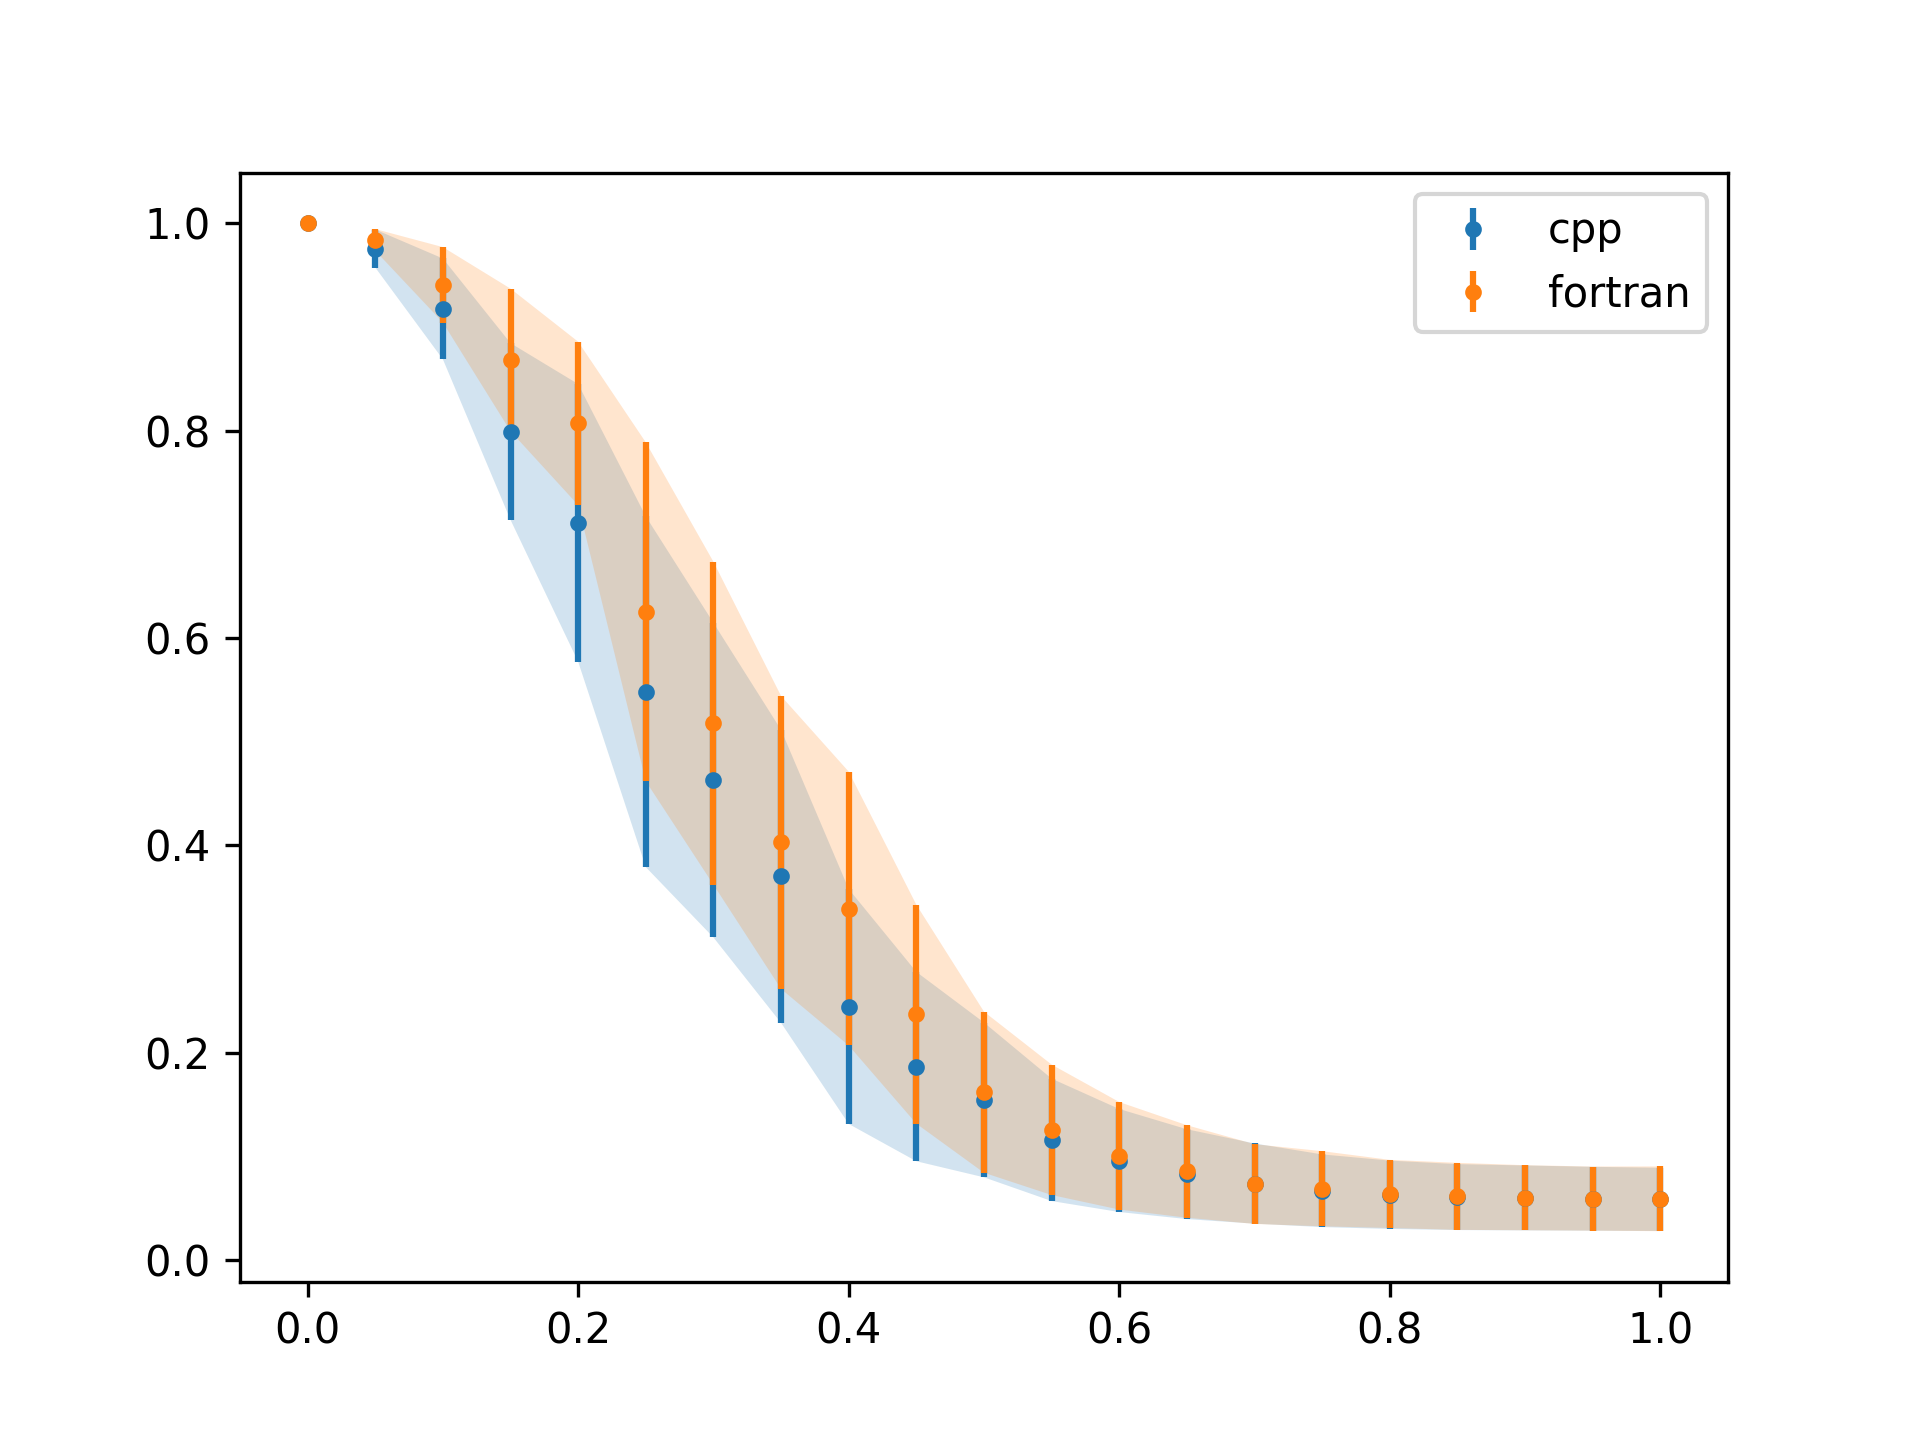
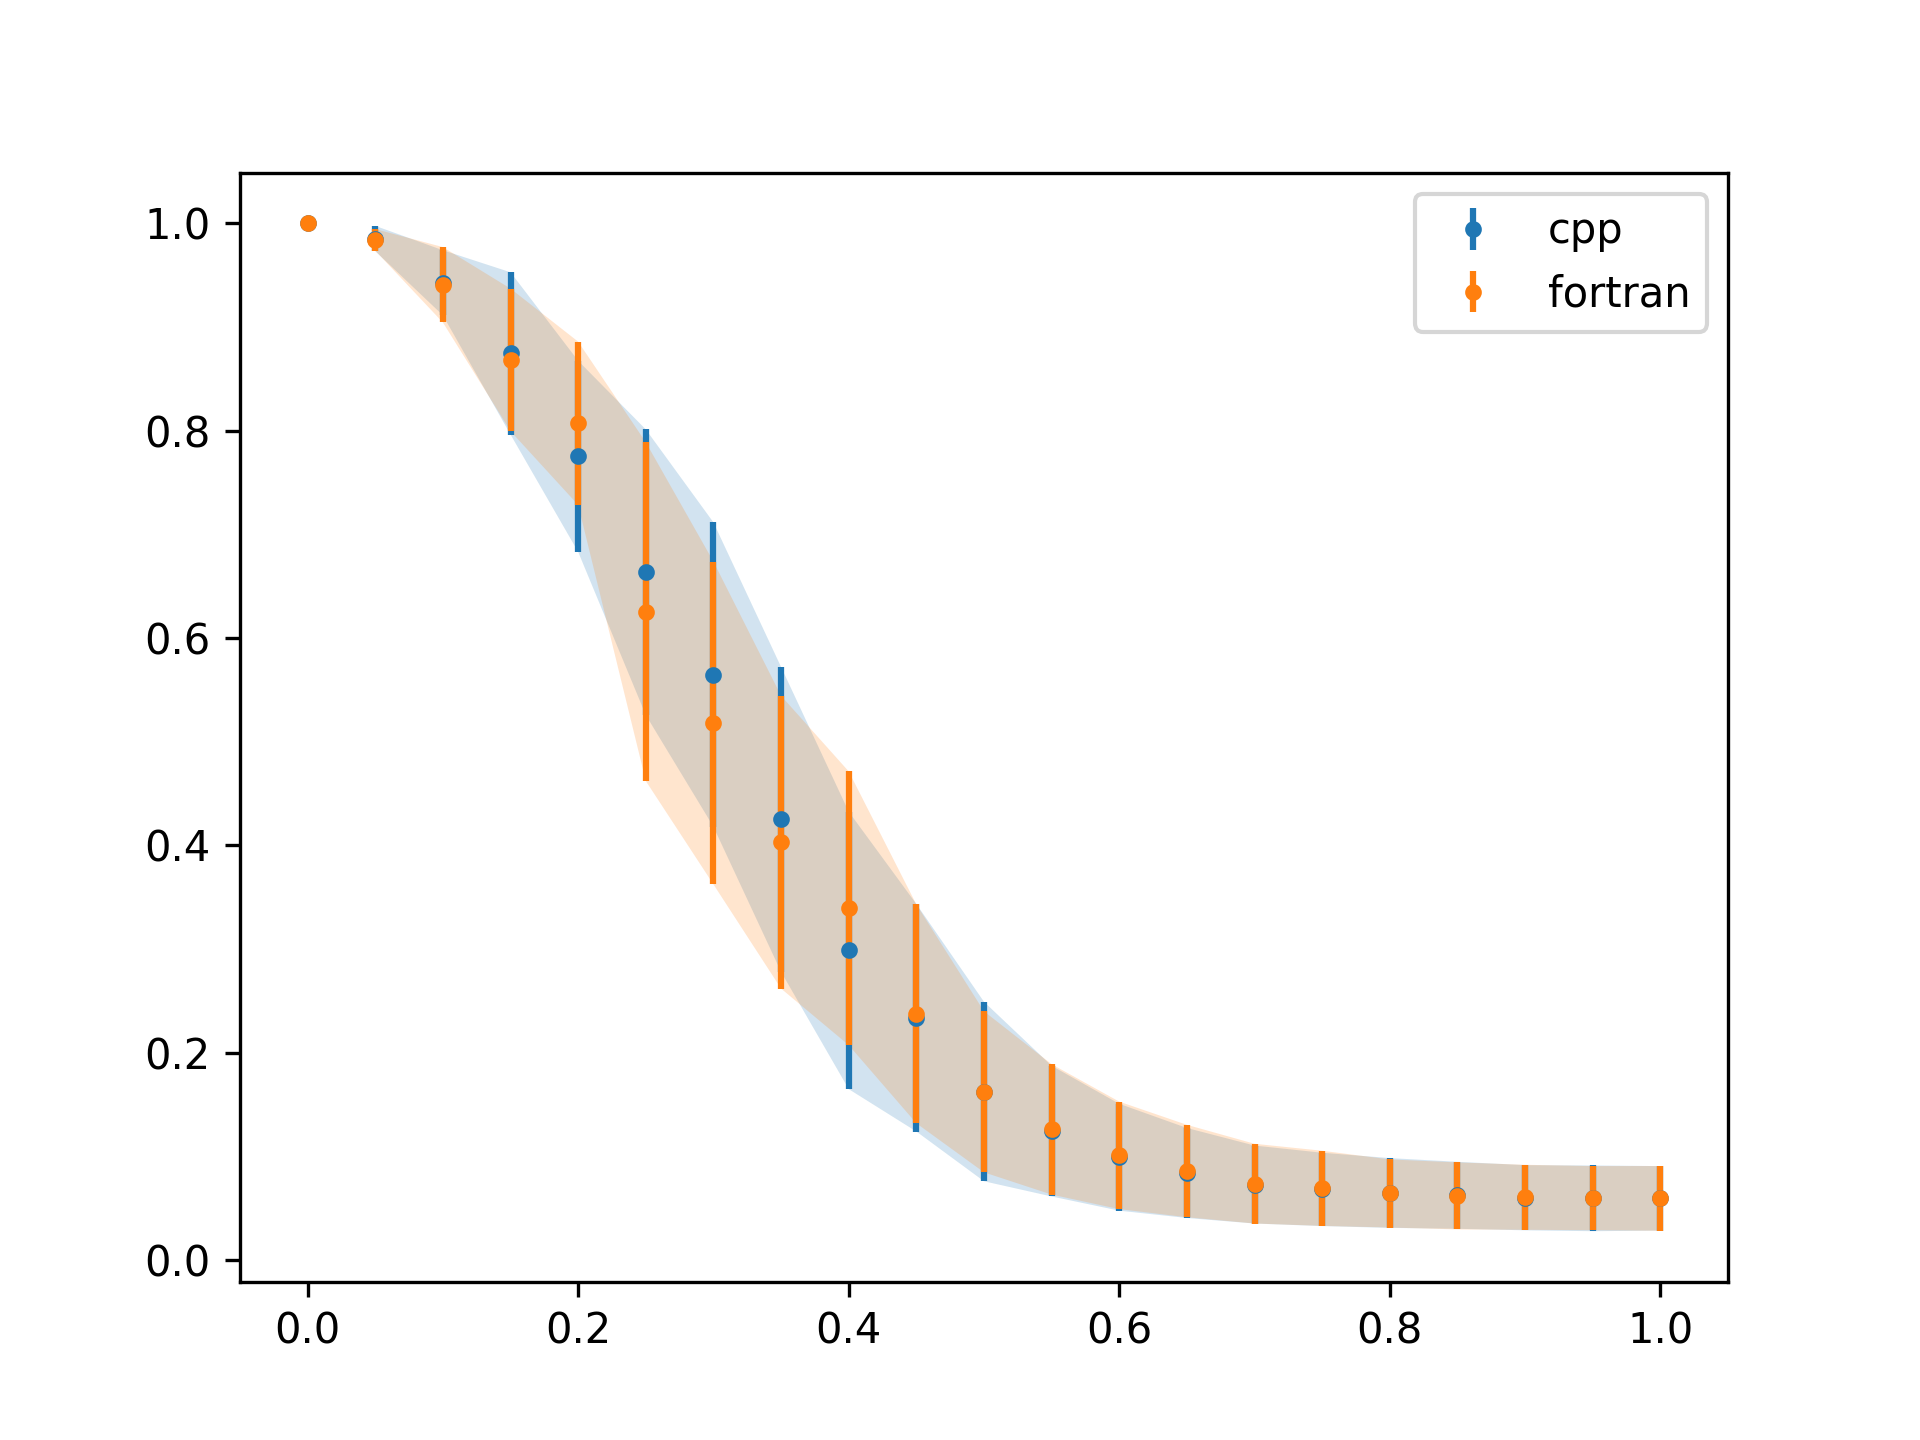
Optimizing cpp, even more

diff --git a/main.cpp b/main.cpp
@@ -22,8 +22,9 @@ private:
     float v0, inv_2L, th = 1.0, rand_const = (1.0 / 4294967296.0);
     const int L, N_cells, N;
     // float *x, *y, *vx, *vy;
-    vector<float> x, y;
-    vector<float> vx, vy;
+    // vector<float> x, y;
+    // vector<vector<float>> vel;, pos;
+    float *pos, *vel;
     int *near_nbr_cells;
     sfmt_t sfmt;
 
@@ -32,17 +33,17 @@ private:
         return value - int(inv_2L * value) * L;
     }
 
-    inline float dist_PBC(float x1, float y1, float x2, float y2)
+    inline float dist_PBC(float *pos1, float *pos2)
     {
-        float dx = pbc(x1 - x2);
-        float dy = pbc(y1 - y2);
+        float dx = pbc(*(pos1++) - *(pos2++));
+        float dy = pbc(*pos1 - *pos2);
         return dx * dx + dy * dy;
     }
 
-    inline float dist_simple(float x1, float y1, float x2, float y2)
+    inline float dist_simple(float *pos1, float *pos2)
     {
-        float dx = x1 - x2;
-        float dy = y1 - y2;
+        float dx = *(pos1++) - *(pos2++);
+        float dy = *pos1 - *pos2;
         return dx * dx + dy * dy;
     }
 
@@ -76,15 +77,18 @@ public:
                               N(int((L_in * L_in * rho_in + 2.0) / 4) * 4),
                               inv_2L(2.0 / float(L_in))
     {
-        // x = (float *)malloc(N * sizeof(float));
-        // y = (float *)malloc(N * sizeof(float));
-        // vx = (float *)malloc(N * sizeof(float));
-        // vy = (float *)malloc(N * sizeof(float));
+        pos = (float *)malloc(2 * N * sizeof(float));
+        vel = (float *)malloc(2 * N * sizeof(float));
 
-        x.resize(N);
-        y.resize(N);
-        vx.resize(N);
-        vy.resize(N);
+        // vel.resize(N);
+        // for (int i = 0; i < N; i++)
+        //     vel[i].resize(2);
+
+        // pos.resize(N);
+        // for (int i = 0; i < N; i++)
+        //     pos[i].resize(2);
+
+        // vy.resize(N);
         // cout << sfmt_get_min_array_size32(&sfmt) << endl;
         near_nbr_cells = (int *)malloc(N_cells * 4 * sizeof(int));
         sfmt_init_gen_rand(&sfmt, seed);
@@ -100,6 +104,8 @@ public:
         // free(y);
         // free(vx);
         // free(vy);
+        free(pos);
+        free(vel);
         free(near_nbr_cells);
     }
 
@@ -107,8 +113,16 @@ public:
     {
         // float sum_x = accumulate(vx, vx + N, 0.0);
         // float sum_y = accumulate(vy, vy + N, 0.0);
-        float sum_x = accumulate(begin(vx), end(vx), 0.0);
-        float sum_y = accumulate(begin(vy), end(vy), 0.0);
+
+        float sum_x = 0, sum_y = 0;
+
+        for (int i = 0; i < 2 * N;)
+        {
+            sum_x += vel[i++];
+            sum_y += vel[i++];
+        }
+        // float sum_x = accumulate(begin(vx), end(vx), 0.0);
+        // float sum_y = accumulate(begin(vy), end(vy), 0.0);
         float polar_i_sq = sum_x * sum_x + sum_y * sum_y;
 
         sum_phis += sqrt(polar_i_sq);
@@ -162,149 +176,145 @@ public:
 
         uint32_t random[random_lenght];
 
-        // uint32_t *random;
-        // if (posix_memalign((void **)&random, 16, sizeof(float) * random_lenght) != 0)
-        //     printf("can't allocate memory.\n");
-
         sfmt_fill_array32(&sfmt, random, random_lenght);
-        float norm = 1.0 / 4294967296.0;
         int rand_indx = 0;
         for (int i = 0; i < N; i++)
         {
-            x[i] = norm * random[rand_indx++] * L;
-            y[i] = norm * random[rand_indx++] * L;
-            float theta = norm * random[rand_indx++] * 6.283185307;
-            vx[i] = cos(theta);
-            vy[i] = sin(theta);
-        }
-
-        // free(random);
-    }
-
-    void neighbours_direction(float *nbr_direction, uint32_t *random)
-    {
-
-        vector<float> integr_vx(vx), integr_vy(vy);
-        vector<int> header(N_cells, -1), cell_list(N);
-
-        // copy(vx.begin(), vx.end(), integr_vx);
-        // copy(vx.begin(), vx.end(), integr_vx);
-        // fill(header.begin(), header.end(), -1);
-
-        for (int i = 0; i < N; i++)
-        {
-            int cell = int(x[i]) % L + L * (int(y[i]) % L);
-            cell_list[i] = header[cell];
-            header[cell] = i;
-            // integr_vx[i] = vx[i];
-            // integr_vy[i] = vy[i];
-        }
-
-        for (int cell = 0; cell < N_cells; cell++)
-        {
-            int *nbr_indx = near_nbr_cells + cell * 4;
-            for (int i = header[cell]; i > -1; i = cell_list[i])
-            {
-
-                for (int j = cell_list[i]; j > -1; j = cell_list[j])
-                {
-                    if (dist_simple(x[i], y[i], x[j], y[j]) < th)
-                    {
-                        integr_vx[i] += vx[j];
-                        integr_vy[i] += vy[j];
-                        integr_vx[j] += vx[i];
-                        integr_vy[j] += vy[i];
-                    }
-                }
-
-                for (int j = header[*nbr_indx++]; j > -1; j = cell_list[j])
-                {
-                    if (dist_PBC(x[i], y[i], x[j], y[j]) < th)
-                    {
-                        integr_vx[i] += vx[j];
-                        integr_vy[i] += vy[j];
-                        integr_vx[j] += vx[i];
-                        integr_vy[j] += vy[i];
-                    }
-                }
-
-                for (int j = header[*nbr_indx++]; j > -1; j = cell_list[j])
-                {
-                    if (dist_PBC(x[i], y[i], x[j], y[j]) < th)
-                    {
-                        integr_vx[i] += vx[j];
-                        integr_vy[i] += vy[j];
-                        integr_vx[j] += vx[i];
-                        integr_vy[j] += vy[i];
-                    }
-                }
-
-                for (int j = header[*nbr_indx++]; j > -1; j = cell_list[j])
-                {
-                    if (dist_PBC(x[i], y[i], x[j], y[j]) < th)
-                    {
-                        integr_vx[i] += vx[j];
-                        integr_vy[i] += vy[j];
-                        integr_vx[j] += vx[i];
-                        integr_vy[j] += vy[i];
-                    }
-                }
-
-                for (int j = header[*nbr_indx]; j > -1; j = cell_list[j])
-                {
-                    if (dist_PBC(x[i], y[i], x[j], y[j]) < th)
-                    {
-                        integr_vx[i] += vx[j];
-                        integr_vy[i] += vy[j];
-                        integr_vx[j] += vx[i];
-                        integr_vy[j] += vy[i];
-                    }
-                }
-                nbr_indx -= 3;
-            }
-        }
-
-        // float random[N];
-        // for (int i = 0; i < N; i++)
-        // {
-        //     random[i] = RAN;
-        // }
-        // float factor1 = eta * 6.283185307179586;
-        // float factor2 = -eta * 3.14159265359;
-
-        // uint32_t random[N];
-        // sfmt_fill_array32(&sfmt, random, N);
-        float factor1 = eta * 6.283185307179586 / 4294967296.0;
-        float factor2 = -eta * 3.14159265359;
-        // cout << random[0] * (1 / 4294967296.0) << endl;
-        for (int i = 0; i < N; i++)
-        {
-            nbr_direction[i] = atan2(integr_vy[i], integr_vx[i]) + factor1 * random[i] + factor2;
+            pos[2 * i] = rand_const * random[rand_indx++] * L;
+            pos[2 * i + 1] = rand_const * random[rand_indx++] * L;
+            float theta = rand_const * random[rand_indx++] * 6.283185307;
+            vel[2 * i] = cos(theta);
+            vel[2 * i + 1] = sin(theta);
         }
     }
 
     void integrate(int steps = 1, int update_obs = 0)
     {
+
+        // vector<vector<float, 2>, N> integr;
+        float *integr = (float *)malloc(2 * N * sizeof(float));
+        int *header = (int *)malloc(N_cells * sizeof(int));
+        int *cell_list = (int *)malloc(2 * N * sizeof(int));
+
+        // float integr[2 * N];
+        // int header[N_cells];
+        // int cell_list[2 * N];
+        // vector<float> integr(2 * N);
+        // vector<int> header(N_cells);
+        // vector<int> cell_list(2 * N);
+
         float particle_direction[N];
         int random_lenght = max(N, sfmt_get_min_array_size32(&sfmt));
-        uint32_t random[random_lenght];
+        uint32_t *random = (uint32_t *)malloc(random_lenght * sizeof(uint32_t));
+        float factor1 = eta * 6.283185307179586 * rand_const;
+        float factor2 = -eta * 3.14159265359;
+
+        // TODO: Create an array of pointers do every Y element (another for X) of integr (or vel os pos...)
+        // Objective. Clean up the code without (2*i + 1) while having contiguous x/y components.
 
         for (int step = 0; step < steps; step++)
         {
+            for (int i = 0; i < N_cells; i++)
+                header[i] = -1;
+
+            for (int i = 0; i < 2 * N; i++)
+                integr[i] = vel[i];
+
+            for (int i = 0; i < 2 * N; i += 2)
+            {
+                int cell = int(pos[i]) % L + L * (int(pos[i + 1]) % L);
+                cell_list[i] = header[cell];
+                header[cell] = i;
+            }
+
+            for (int cell = 0; cell < N_cells; cell++)
+            {
+                int *nbr_indx = near_nbr_cells + cell * 4;
+                for (int i = header[cell]; i > -1; i = cell_list[i])
+                {
+
+                    for (int j = cell_list[i]; j > -1; j = cell_list[j])
+                    {
+                        if (dist_simple(&pos[i], &pos[j]) < th)
+                        {
+                            integr[i] += vel[j];
+                            integr[i + 1] += vel[j + 1];
+                            integr[j] += vel[i];
+                            integr[j + 1] += vel[i + 1];
+                        }
+                    }
+
+                    for (int j = header[*nbr_indx++]; j > -1; j = cell_list[j])
+                    {
+                        if (dist_PBC(&pos[i], &pos[j]) < th)
+                        {
+                            integr[i] += vel[j];
+                            integr[i + 1] += vel[j + 1];
+                            integr[j] += vel[i];
+                            integr[j + 1] += vel[i + 1];
+                        }
+                    }
+
+                    for (int j = header[*nbr_indx++]; j > -1; j = cell_list[j])
+                    {
+                        if (dist_PBC(&pos[i], &pos[j]) < th)
+                        {
+                            integr[i] += vel[j];
+                            integr[i + 1] += vel[j + 1];
+                            integr[j] += vel[i];
+                            integr[j + 1] += vel[i + 1];
+                        }
+                    }
+
+                    for (int j = header[*nbr_indx++]; j > -1; j = cell_list[j])
+                    {
+                        if (dist_PBC(&pos[i], &pos[j]) < th)
+                        {
+                            integr[i] += vel[j];
+                            integr[i + 1] += vel[j + 1];
+                            integr[j] += vel[i];
+                            integr[j + 1] += vel[i + 1];
+                        }
+                    }
+
+                    for (int j = header[*nbr_indx]; j > -1; j = cell_list[j])
+                    {
+                        if (dist_PBC(&pos[i], &pos[j]) < th)
+                        {
+                            integr[i] += vel[j];
+                            integr[i + 1] += vel[j + 1];
+                            integr[j] += vel[i];
+                            integr[j + 1] += vel[i + 1];
+                        }
+                    }
+                    nbr_indx -= 3;
+                }
+            }
+
             sfmt_fill_array32(&sfmt, random, random_lenght);
-            neighbours_direction(particle_direction, random);
+
+            for (int i = 0; i < N; i++)
+
+                particle_direction[i] = atan2(integr[2 * i + 1], integr[2 * i]) + factor1 * random[i] + factor2;
 
             for (int i = 0; i < N; i++)
             {
-                vx[i] = cos(particle_direction[i]);
-                vy[i] = sin(particle_direction[i]);
-                x[i] = wrap3(x[i] + v0 * vx[i]);
-                y[i] = wrap3(y[i] + v0 * vy[i]);
+                vel[2 * i] = cos(particle_direction[i]);
+                vel[2 * i + 1] = sin(particle_direction[i]);
+            }
+
+            for (int i = 0; i < 2 * N; i++)
+            {
+                pos[i] = wrap3(pos[i] + v0 * vel[i]);
             }
 
             if (update_obs)
                 update_observables();
         }
+        free(header);
+        free(cell_list);
+        free(integr);
+        free(random);
     }
 };
 
